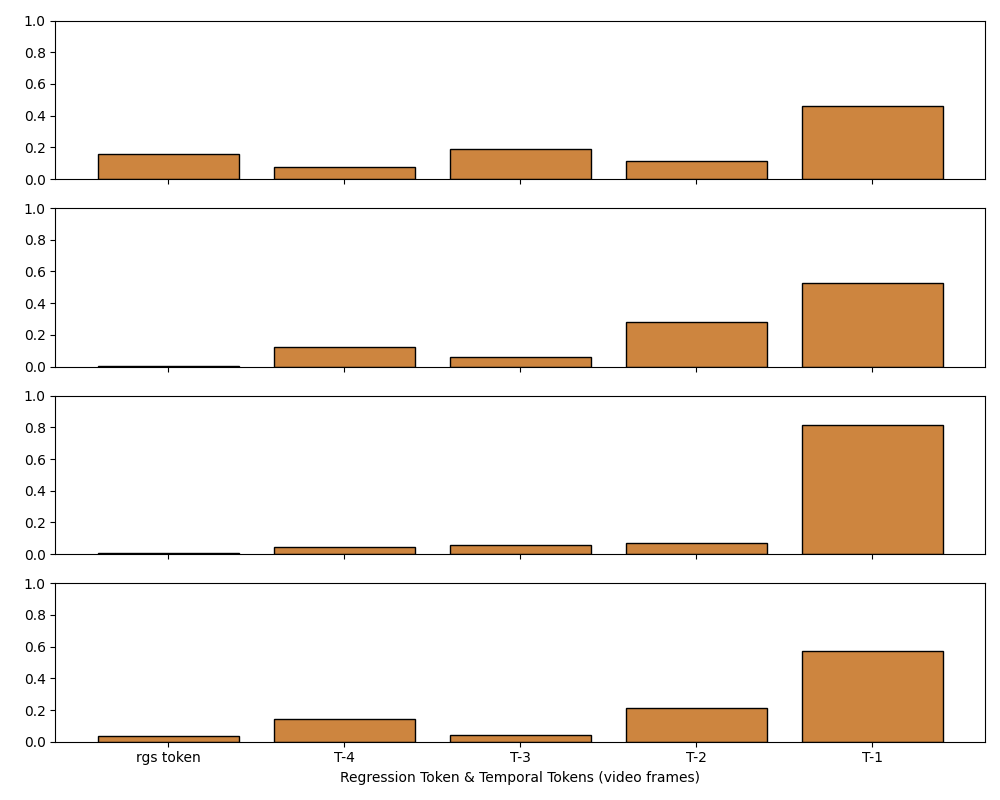
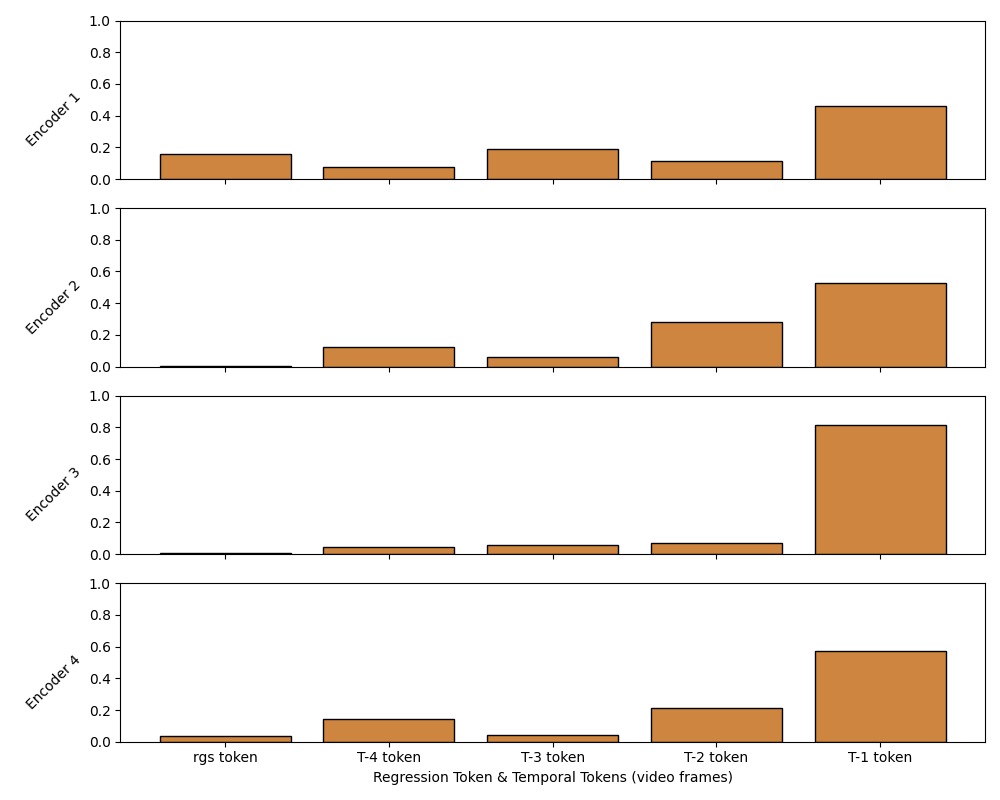
improved chart

diff --git a/arena/video_vision_transformer/get_attention_weights_vivit.py b/arena/video_vision_transformer/get_attention_weights_vivit.py
@@ -61,7 +61,7 @@ average_attention_scores_cls=average_attention_scores_cls.reshape(4,5)
 fig, axs = plt.subplots(4, 1, figsize=(10, 8), sharex=True)
 
 # Set common x-axis labels
-x_ticks_labels = ['rgs token', 'T-4', 'T-3', 'T-2', 'T-1']
+x_ticks_labels = ['rgs token', 'T-4 token', 'T-3 token', 'T-2 token', 'T-1 token']
 
 # Set y-axis limits
 y_axis_limits = (0, 1.0)
@@ -70,6 +70,7 @@ y_axis_limits = (0, 1.0)
 for i in range(4):
     axs[i].bar(np.arange(5), average_attention_scores_cls[i], color='peru', edgecolor='black')
     axs[i].set_ylim(y_axis_limits)
+    axs[i].set_ylabel(f'Encoder {i+1}', rotation=45, ha='right')
 
 # Set common x-axis properties
 axs[-1].set_xticks(np.arange(5))
